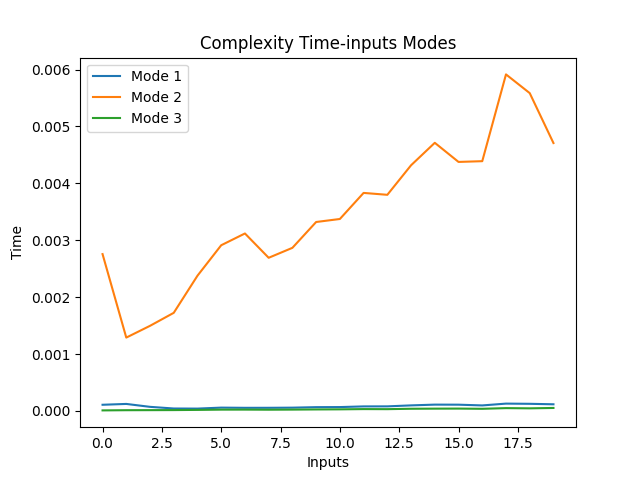
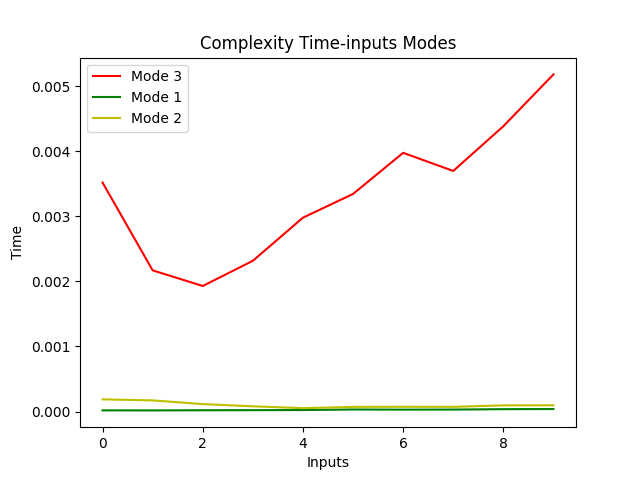
add grafication complexity

diff --git a/generators.py b/generators.py
@@ -5,48 +5,8 @@ from data import Data as da
 class Generators:
     
 
-
+    @staticmethod
     def generator_iter_mode_1(my_list):
-        """
-            Function generator iterable Mode 1
-            parameters:
-            ___________
-                        my_list (list): A list to find words
-            Returns:
-            ___________
-                        (tuple) (word (str): word match in list, value (int): number of word searching)
-        """
-        temp_list = my_list #1
-        while len(temp_list) > 0: #n
-            word = temp_list[0] #n
-            len_list_ant = len(temp_list) #n
-            temp_list = da.generate_new_list(temp_list,word) #1
-            value = int(len_list_ant) - len(temp_list) #1
-            yield word,value
-
-
-    @staticmethod
-    def generator_iter_mode_2(my_list):
-        """
-            Function generator iterable Mode 2
-            parameters:
-            ___________
-                        my_list (list): A list to find words
-            Returns:
-            ___________
-                        (tuple) (word (str): word match in list, value (int): number of word searching)
-        """
-        temp_list = pd.DataFrame(my_list,columns=["words"]) #1
-        while len(temp_list) > 0:#n
-            word = temp_list.iloc[0]['words'] #n
-            len_list_ant = len(temp_list) #n
-            temp_list = temp_list[temp_list['words'] != word ].reset_index(drop=True) #n^2
-            value = int(len_list_ant) - len(temp_list)  #n
-            yield word,value #n
-
-
-    @staticmethod
-    def generator_iter_mode_3(my_list):
         """
             Function generator iterable Mode 2
             parameters:
@@ -63,6 +23,43 @@ class Generators:
             value = int(len_list_ant) - len(temp_list)  #n
             temp_list = [i for i in temp_list if i != word] #n^2
             yield word,value #n^2
+
+    def generator_iter_mode_2(my_list):
+        """
+            Function generator iterable Mode 1
+            parameters:
+            ___________
+                        my_list (list): A list to find words
+            Returns:
+            ___________
+                        (tuple) (word (str): word match in list, value (int): number of word searching)
+        """
+        temp_list = my_list #1
+        while len(temp_list) > 0: #n
+            word = temp_list[0] #n
+            len_list_ant = len(temp_list) #n
+            temp_list = da.generate_new_list(temp_list,word) #1
+            value = int(len_list_ant) - len(temp_list) #1
+            yield word,value
+            
+    @staticmethod
+    def generator_iter_mode_3(my_list):
+        """
+            Function generator iterable Mode 2
+            parameters:
+            ___________
+                        my_list (list): A list to find words
+            Returns:
+            ___________
+                        (tuple) (word (str): word match in list, value (int): number of word searching)
+        """
+        temp_list = pd.DataFrame(my_list,columns=["words"]) #1
+        while len(temp_list) > 0:#n
+            word = temp_list.iloc[0]['words'] #n
+            len_list_ant = len(temp_list) #n
+            temp_list = temp_list[temp_list['words'] != word ].reset_index(drop=True) #n^2
+            value = int(len_list_ant) - len(temp_list)  #n
+            yield word,value #n
     
     
     

diff --git a/grafication.py b/grafication.py
@@ -6,10 +6,15 @@ def generate_grafics(time_results):
     list_times_mode_1 = [v['mode_1']['time'] for v in [kv for ki,kv in time_results.items()]]
     list_times_mode_2 = [v['mode_2']['time'] for v in [kv for ki,kv in time_results.items()]]
     list_times_mode_3 = [v['mode_3']['time'] for v in [kv for ki,kv in time_results.items()]]
-
-    plt.plot([i for i in range(0,list_times_mode_count)],list_times_mode_1, label='Mode 1')
-    plt.plot([i for i in range(0,list_times_mode_count)],list_times_mode_2, label='Mode 2')
-    plt.plot([i for i in range(0,list_times_mode_count)],list_times_mode_3, label='Mode 3')
+    print("_"*10)
+    print(list_times_mode_1)
+    print("_"*10)
+    print(list_times_mode_2)
+    print("_"*10)
+    print(list_times_mode_3)
+    plt.plot([i for i in range(0,list_times_mode_count)],list_times_mode_3,"r", label='Mode 3')
+    plt.plot([i for i in range(0,list_times_mode_count)],list_times_mode_1,"g", label='Mode 1')
+    plt.plot([i for i in range(0,list_times_mode_count)],list_times_mode_2,"y", label='Mode 2')
     plt.xlabel('Inputs')
     plt.ylabel('Time')
     plt.title("Complexity Time-inputs Modes")
@@ -19,24 +24,34 @@ def generate_grafics(time_results):
     fig_1 = plt.figure("Complexity foreach mode")
     fig_1.subplots_adjust(hspace=0.5,wspace=0.5)
     ax = fig_1.add_subplot(2,2,1)
-    ax.plot([i for i in range(0,list_times_mode_count)],list_times_mode_1, label='Mode 1')
+    ax.plot([i for i in range(0,list_times_mode_count)],list_times_mode_1,"g",label='Mode 1')
     ax.set_ylabel('Time')
     ax.set_xlabel('Inputs')
     ax.set_title("Mode 1")
 
 
     ax = fig_1.add_subplot(2,2,2)
-    ax.plot([i for i in range(0,list_times_mode_count)],list_times_mode_2, label='Mode 2')
+    ax.plot([i for i in range(0,list_times_mode_count)],list_times_mode_2,"y",label='Mode 2')
     ax.set_ylabel('Time')
     ax.set_xlabel('Inputs')
     ax.set_title("Mode 2")
 
 
     ax = fig_1.add_subplot(2,2,3)
-    ax.plot([i for i in range(0,list_times_mode_count)],list_times_mode_3, label='Mode 3')
+    ax.plot([i for i in range(0,list_times_mode_count)],list_times_mode_3,"r",label='Mode 3')
     ax.set_ylabel('Time')
     ax.set_xlabel('Inputs')
     ax.set_title("Mode 3")
+    
+    ax = fig_1.add_subplot(2,2,4)
+    data=[
+        ["Minimo",round(min(list_times_mode_1),5),round(min(list_times_mode_2),5),round(min(list_times_mode_3),5)],
+        ["Promedio",round(sum(list_times_mode_1)/len(list_times_mode_1),5),round(sum(list_times_mode_2)/len(list_times_mode_2),5),round(sum(list_times_mode_3)/len(list_times_mode_3),5)],
+        ["Maximo",round(max(list_times_mode_1),5),round(max(list_times_mode_2),5),round(max(list_times_mode_3),5)]]
+    column_labels=["Tiempo","Mode 1", "Mode 2", "Mode 3"]
+    ax.axis('tight')
+    ax.axis('off')
+    ax.table(cellText=data,colLabels=column_labels,loc="best")
 
 
     plt.savefig('time_inputs_foreach_modes.png')

diff --git a/complexity_analisys.py b/complexity_analisys.py
@@ -75,7 +75,7 @@ def run_generators(n_cases,iterations):
         }
     return result
 
-time_results = run_generators(20,10)
+time_results = run_generators(10,10)
 grafication.generate_grafics(time_results)
 
 
